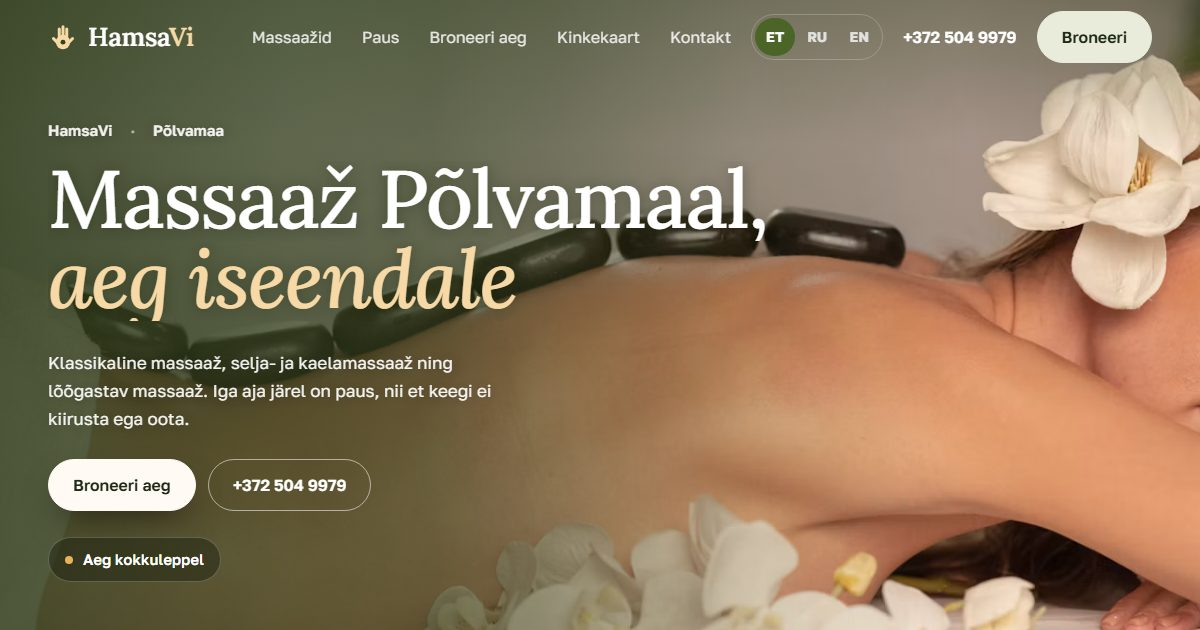
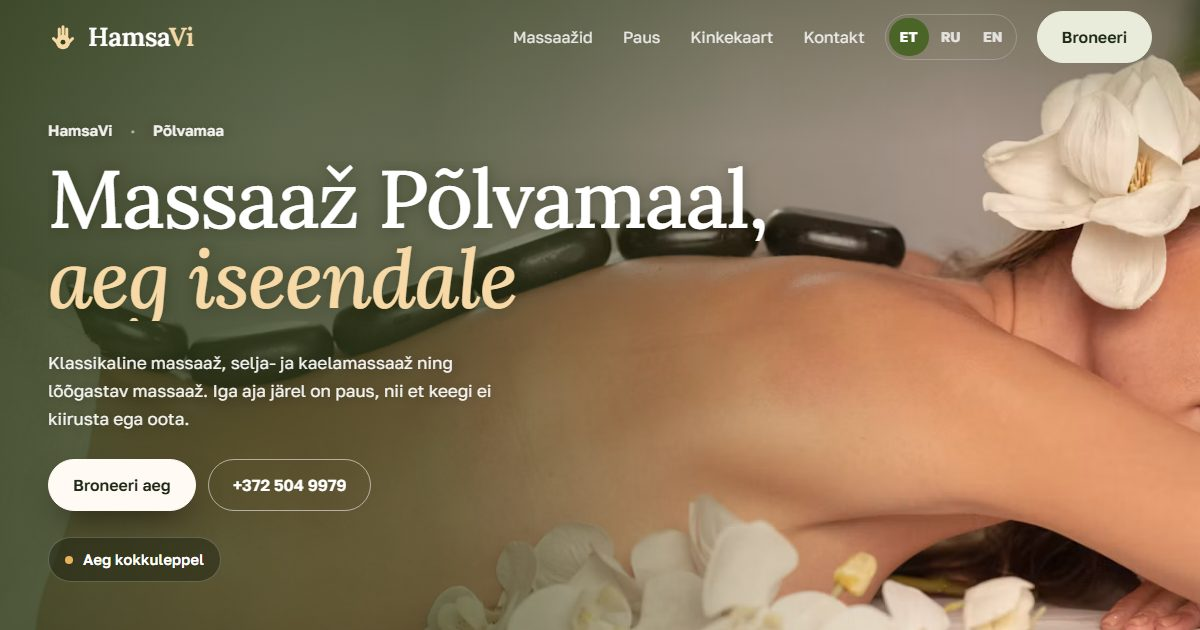
QA parandused

Changed region(s): [[0.37, 0.0302, 0.8633, 0.0905], [0.2158, 0.0302, 0.2775, 0.0905], [0.3083, 0.0302, 0.3392, 0.0905]]

diff --git a/hamsavi/ru/index.html b/hamsavi/ru/index.html
@@ -5,7 +5,7 @@
 <meta name="viewport" content="width=device-width, initial-scale=1, viewport-fit=cover">
 <meta name="robots" content="noindex">
 <title>Массаж в Пылвамаа | HamsaVi</title>
-<meta name="description" content="HamsaVi — массаж в Пылвамаа, волость Пылва. Классический массаж, массаж спины и шеи, расслабляющий массаж в спокойном месте за городом. Время по договорённости, звоните…">
+<meta name="description" content="HamsaVi — массаж в Пылвамаа. Классический массаж, массаж спины и шеи, расслабляющий массаж за городом, в тишине. Время по договорённости: +372 504 9979.">
 <meta name="theme-color" content="#DCE1C9">
 <meta property="og:type" content="website">
 <meta property="og:locale" content="ru_RU">
@@ -17,7 +17,7 @@
 <link rel="alternate" hreflang="x-default" href="../">
 <meta property="og:site_name" content="HamsaVi">
 <meta property="og:title" content="Массаж в Пылвамаа | HamsaVi">
-<meta property="og:description" content="HamsaVi — массаж в Пылвамаа, волость Пылва. Классический массаж, массаж спины и шеи, расслабляющий массаж в спокойном месте за городом. Время по договорённости, звоните…">
+<meta property="og:description" content="HamsaVi — массаж в Пылвамаа. Классический массаж, массаж спины и шеи, расслабляющий массаж за городом, в тишине. Время по договорённости: +372 504 9979.">
 <meta property="og:image" content="https://herijanis.github.io/kiirleht/hamsavi/og.jpg">
 <meta property="og:image:width" content="1200">
 <meta property="og:image:height" content="630">
@@ -30,7 +30,7 @@
 <script src="https://cdnjs.cloudflare.com/ajax/libs/gsap/3.12.5/ScrollTrigger.min.js" defer></script>
 <script src="https://cdn.jsdelivr.net/npm/lenis@1.1.13/dist/lenis.min.js" defer></script>
 <link rel="preconnect" href="https://images.unsplash.com">
-<script type="application/ld+json">{"@context": "https://schema.org", "@type": "HealthAndBeautyBusiness", "name": "HamsaVi", "description": "HamsaVi — массаж в Пылвамаа, волость Пылва. Классический массаж, массаж спины и шеи, расслабляющий массаж в спокойном месте за городом. Время по договорённости, звоните…", "telephone": "+3725049979", "address": {"@type": "PostalAddress", "streetAddress": "Põlva vald", "addressLocality": "Põlva vald", "addressCountry": "EE"}, "email": "Hamsaviou@gmail.com", "hasMap": "https://www.google.com/maps/search/?api=1&query=P%C3%B5lva%20vald", "inLanguage": "ru"}</script>
+<script type="application/ld+json">{"@context": "https://schema.org", "@type": "HealthAndBeautyBusiness", "name": "HamsaVi", "description": "HamsaVi — массаж в Пылвамаа. Классический массаж, массаж спины и шеи, расслабляющий массаж за городом, в тишине. Время по договорённости: +372 504 9979.", "telephone": "+3725049979", "address": {"@type": "PostalAddress", "streetAddress": "Põlva vald", "addressLocality": "Põlva vald", "addressCountry": "EE"}, "email": "Hamsaviou@gmail.com", "hasMap": "https://www.google.com/maps/search/?api=1&query=P%C3%B5lva%20vald", "inLanguage": "ru"}</script>
 <script type="application/ld+json">{"@context": "https://schema.org", "@type": "FAQPage", "mainEntity": [{"@type": "Question", "name": "Где проходит массаж?", "acceptedAnswer": {"@type": "Answer", "text": "В Пылвамаа, в волости Пылва. Точное место и как доехать — сообщим при подтверждении записи."}}, {"@type": "Question", "name": "Сколько стоит массаж?", "acceptedAnswer": {"@type": "Answer", "text": "Цену скажем, когда договоримся о времени, — она зависит от массажа и длительности."}}, {"@type": "Question", "name": "Сколько может длиться массаж?", "acceptedAnswer": {"@type": "Answer", "text": "Можно выбрать 30, 60 или 90 минут. Если не знаете, что подойдёт, — просто спросите."}}, {"@type": "Question", "name": "Почему между сеансами перерыв?", "acceptedAnswer": {"@type": "Answer", "text": "После каждого массажа есть перерыв — чтобы ваше время не сокращалось и следующему клиенту не приходилось ждать. Сеансы никогда не ставятся вплотную друг к другу."}}, {"@type": "Question", "name": "Когда можно прийти?", "acceptedAnswer": {"@type": "Answer", "text": "Время — по договорённости. Выберите в форме удобный день и время или позвоните +372 504 9979."}}, {"@type": "Question", "name": "Можно ли подарить сертификат?", "acceptedAnswer": {"@type": "Answer", "text": "Да — закажите прямо здесь, на сайте, через SMS или позвоните."}}], "inLanguage": "ru"}</script>
 <style>
 
@@ -400,6 +400,10 @@ body.t-hv main>section:is(.blk,.sec){--tA:#CFD7B8;--tB:#E3E7D1}
 @media (max-width:900px){.t-hv .pause .pz-text,.t-hv .pause .pz-photo{grid-column:1/-1}.t-hv .pause .pz-photo{min-height:300px}}
 .t-hv .pz-text h2{font-size:clamp(36px,4vw,56px)}
 .t-hv .pz-text p{color:var(--muted);font-size:18px}
+/* QA 19.11: logo ei tohi menüü alla kokku suruda (900–1280px, RU pikemad sõnad) */
+.t-hv .top .brand{flex:none}
+@media (max-width:1239px){.t-hv .top-call{display:none}}
+@media (max-width:1079px){.t-hv .top .nav{display:none}}
 .t-hv .day{list-style:none;padding:0;margin:26px 0 0;display:grid;gap:8px}
 .t-hv .day li{display:grid;grid-template-columns:64px 1fr;gap:14px;align-items:center;font-size:16px}
 .t-hv .day time{font-variant-numeric:tabular-nums;font-weight:700}
@@ -500,7 +504,7 @@ body.t-hv main>section:is(.blk,.sec){--tA:#CFD7B8;--tB:#E3E7D1}
 <a class="skip" href="#main">Перейти к содержанию</a>
 <header class="top"><div class="wrap">
   <a class="brand" translate="no" href="#main" aria-label="HamsaVi"><svg viewBox="0 0 32 32" aria-hidden="true"><g fill="none" stroke="currentColor" stroke-width="3.2" stroke-linecap="round"><path d="M12 15V7.5M16 15V5M20 15V7.5M9.6 21.5 5.8 17.6M22.4 21.5l3.8-3.9"/></g><rect x="8.5" y="13.5" width="15" height="15.5" rx="7.5" fill="currentColor"/><circle class="eye" cx="16" cy="21.5" r="2.6"/></svg><span>Hamsa<b>Vi</b></span></a>
-  <nav class="nav" aria-label="Меню"><a href="#massaazid">Массажи</a><a href="#paus">Перерыв</a><a href="#broneeri">Записаться</a><a href="#kinkekaart">Подарочный сертификат</a><a href="#kontakt">Контакты</a></nav>
+  <nav class="nav" aria-label="Меню"><a href="#massaazid">Массажи</a><a href="#paus">Перерыв</a><a href="#kinkekaart">Подарочный сертификат</a><a href="#kontakt">Контакты</a></nav>
   <nav class="lang" aria-label="Keel / Язык / Language"><a href="../" hreflang="et" lang="et" data-lang="et">ET</a><a href="./" hreflang="ru" lang="ru" data-lang="ru" aria-current="true">RU</a><a href="../en/" hreflang="en" lang="en" data-lang="en">EN</a></nav>
   <a class="top-call" href="tel:+3725049979">+372 504 9979</a>
   <a class="btn" href="#broneeri">Записаться</a>
@@ -600,7 +604,7 @@ body.t-hv main>section:is(.blk,.sec){--tA:#CFD7B8;--tB:#E3E7D1}
 <section id="kkk" class="sec faq">
   <div class="wrap faq-grid"><h2>Частые вопросы</h2><div class="faq-list"><details><summary>Где проходит массаж?</summary><p>В Пылвамаа, в волости Пылва. Точное место и как доехать — сообщим при подтверждении записи.</p></details><details><summary>Сколько стоит массаж?</summary><p>Цену скажем, когда договоримся о времени, — она зависит от массажа и длительности.</p></details><details><summary>Сколько может длиться массаж?</summary><p>Можно выбрать 30, 60 или 90 минут. Если не знаете, что подойдёт, — просто спросите.</p></details><details><summary>Почему между сеансами перерыв?</summary><p>После каждого массажа есть перерыв — чтобы ваше время не сокращалось и следующему клиенту не приходилось ждать. Сеансы никогда не ставятся вплотную друг к другу.</p></details><details><summary>Когда можно прийти?</summary><p>Время — по договорённости. Выберите в форме удобный день и время или позвоните +372 504 9979.</p></details><details><summary>Можно ли подарить сертификат?</summary><p>Да — закажите прямо здесь, на сайте, через SMS или позвоните.</p></details></div></div>
 </section>
-<section id="kontakt" class="blk" style="padding-top:0"><div class="wrap">
+<section id="kontakt" class="blk"><div class="wrap">
   <div class="g12 shead"><div><h2>Контакты</h2></div><p>Позвоните, отправьте SMS или напишите — договоримся о времени.</p></div>
   <article class="band city reveal-clip"><img src="https://images.unsplash.com/photo-1592859600972-1b0834d83747?w=1200&h=525&q=70&auto=format&fit=crop&crop=entropy" srcset="https://images.unsplash.com/photo-1592859600972-1b0834d83747?w=800&h=350&q=70&auto=format&fit=crop&crop=entropy 800w, https://images.unsplash.com/photo-1592859600972-1b0834d83747?w=1800&h=788&q=70&auto=format&fit=crop&crop=entropy 1800w" sizes="100vw" width="1200" height="525" alt="Тропинка в сосновом лесу" loading="lazy" decoding="async"><div class="in"><h3>Пылвамаа</h3><p>Волость Пылва. Точное место и как доехать — сообщим при подтверждении записи.</p></div></article>
   <div class="contact">
@@ -779,7 +783,7 @@ function upd(){
   var day=v('date'),dd='';if(day){var pd=day.split('-');dd=pd[2]+'.'+pd[1]+'.'+pd[0]}
   var at=(s&&day)?tpl(T.at,{t:hm(cur)}):((L.tod||{}).u||'');
   if(s&&day)info.textContent=tpl(T.rng,{a:hm(cur),b:hm(cur+dur),c:hm(cur+dur+P)});
-  var lines=[tpl(L.mHello,{s:sd}),dd?tpl(L.mDate,{d:dd,t:at}):tpl(L.mTime,{t:at}),v('note'),L.mAsk||'',v('name')?tpl(L.mName,{n:v('name')}):''];
+  var lines=[tpl(L.mHello,{s:sd}),dd?tpl(L.mDate,{d:dd,t:at}):tpl(L.mTime,{t:at}),v('note'),(s&&day)?'':(L.mAsk||''),v('name')?tpl(L.mName,{n:v('name')}):''];
   var body=lines.filter(Boolean).join('\n'),num=bf.dataset.sms.replace(/[^0-9+]/g,'');
   d.getElementById('bkSms').href='sms:'+num+'?&body='+encodeURIComponent(body);
   var w=d.getElementById('bkWa');if(w)w.href='https://wa.me/'+num.replace(/\D/g,'')+'?text='+encodeURIComponent(body);

diff --git a/hamsavi/en/index.html b/hamsavi/en/index.html
@@ -5,7 +5,7 @@
 <meta name="viewport" content="width=device-width, initial-scale=1, viewport-fit=cover">
 <meta name="robots" content="noindex">
 <title>Massage in Põlva County | HamsaVi</title>
-<meta name="description" content="HamsaVi – massage in Põlva County. Classic massage, back and neck massage and relaxing massage in a quiet countryside setting. By appointment, call…">
+<meta name="description" content="HamsaVi – massage in Põlva County. Classic, back and neck, and relaxing massage in a quiet countryside setting. By appointment: +372 504 9979.">
 <meta name="theme-color" content="#DCE1C9">
 <meta property="og:type" content="website">
 <meta property="og:locale" content="en_GB">
@@ -17,7 +17,7 @@
 <link rel="alternate" hreflang="x-default" href="../">
 <meta property="og:site_name" content="HamsaVi">
 <meta property="og:title" content="Massage in Põlva County | HamsaVi">
-<meta property="og:description" content="HamsaVi – massage in Põlva County. Classic massage, back and neck massage and relaxing massage in a quiet countryside setting. By appointment, call…">
+<meta property="og:description" content="HamsaVi – massage in Põlva County. Classic, back and neck, and relaxing massage in a quiet countryside setting. By appointment: +372 504 9979.">
 <meta property="og:image" content="https://herijanis.github.io/kiirleht/hamsavi/og.jpg">
 <meta property="og:image:width" content="1200">
 <meta property="og:image:height" content="630">
@@ -30,7 +30,7 @@
 <script src="https://cdnjs.cloudflare.com/ajax/libs/gsap/3.12.5/ScrollTrigger.min.js" defer></script>
 <script src="https://cdn.jsdelivr.net/npm/lenis@1.1.13/dist/lenis.min.js" defer></script>
 <link rel="preconnect" href="https://images.unsplash.com">
-<script type="application/ld+json">{"@context": "https://schema.org", "@type": "HealthAndBeautyBusiness", "name": "HamsaVi", "description": "HamsaVi – massage in Põlva County. Classic massage, back and neck massage and relaxing massage in a quiet countryside setting. By appointment, call…", "telephone": "+3725049979", "address": {"@type": "PostalAddress", "streetAddress": "Põlva vald", "addressLocality": "Põlva vald", "addressCountry": "EE"}, "email": "Hamsaviou@gmail.com", "hasMap": "https://www.google.com/maps/search/?api=1&query=P%C3%B5lva%20vald", "inLanguage": "en"}</script>
+<script type="application/ld+json">{"@context": "https://schema.org", "@type": "HealthAndBeautyBusiness", "name": "HamsaVi", "description": "HamsaVi – massage in Põlva County. Classic, back and neck, and relaxing massage in a quiet countryside setting. By appointment: +372 504 9979.", "telephone": "+3725049979", "address": {"@type": "PostalAddress", "streetAddress": "Põlva vald", "addressLocality": "Põlva vald", "addressCountry": "EE"}, "email": "Hamsaviou@gmail.com", "hasMap": "https://www.google.com/maps/search/?api=1&query=P%C3%B5lva%20vald", "inLanguage": "en"}</script>
 <script type="application/ld+json">{"@context": "https://schema.org", "@type": "FAQPage", "mainEntity": [{"@type": "Question", "name": "Where does the massage take place?", "acceptedAnswer": {"@type": "Answer", "text": "In Põlva County, Põlva parish. You'll get the exact location and directions when your time is confirmed."}}, {"@type": "Question", "name": "How much does a massage cost?", "acceptedAnswer": {"@type": "Answer", "text": "We'll tell you the price when we agree on a time – it depends on the massage and its length."}}, {"@type": "Question", "name": "How long can a massage be?", "acceptedAnswer": {"@type": "Answer", "text": "You can choose 30, 60 or 90 minutes. Not sure what suits you? Just ask."}}, {"@type": "Question", "name": "Why is there a break between appointments?", "acceptedAnswer": {"@type": "Answer", "text": "There is a break after every massage, so your time is never cut short and the next client never has to wait. Appointments are never booked back to back."}}, {"@type": "Question", "name": "When can I come?", "acceptedAnswer": {"@type": "Answer", "text": "Times are by arrangement. Pick a day and start time in the form or call +372 504 9979."}}, {"@type": "Question", "name": "Do you offer gift cards?", "acceptedAnswer": {"@type": "Answer", "text": "Yes – order one right here by text message, or give us a call."}}], "inLanguage": "en"}</script>
 <style>
 
@@ -400,6 +400,10 @@ body.t-hv main>section:is(.blk,.sec){--tA:#CFD7B8;--tB:#E3E7D1}
 @media (max-width:900px){.t-hv .pause .pz-text,.t-hv .pause .pz-photo{grid-column:1/-1}.t-hv .pause .pz-photo{min-height:300px}}
 .t-hv .pz-text h2{font-size:clamp(36px,4vw,56px)}
 .t-hv .pz-text p{color:var(--muted);font-size:18px}
+/* QA 19.11: logo ei tohi menüü alla kokku suruda (900–1280px, RU pikemad sõnad) */
+.t-hv .top .brand{flex:none}
+@media (max-width:1239px){.t-hv .top-call{display:none}}
+@media (max-width:1079px){.t-hv .top .nav{display:none}}
 .t-hv .day{list-style:none;padding:0;margin:26px 0 0;display:grid;gap:8px}
 .t-hv .day li{display:grid;grid-template-columns:64px 1fr;gap:14px;align-items:center;font-size:16px}
 .t-hv .day time{font-variant-numeric:tabular-nums;font-weight:700}
@@ -500,7 +504,7 @@ body.t-hv main>section:is(.blk,.sec){--tA:#CFD7B8;--tB:#E3E7D1}
 <a class="skip" href="#main">Skip to content</a>
 <header class="top"><div class="wrap">
   <a class="brand" translate="no" href="#main" aria-label="HamsaVi"><svg viewBox="0 0 32 32" aria-hidden="true"><g fill="none" stroke="currentColor" stroke-width="3.2" stroke-linecap="round"><path d="M12 15V7.5M16 15V5M20 15V7.5M9.6 21.5 5.8 17.6M22.4 21.5l3.8-3.9"/></g><rect x="8.5" y="13.5" width="15" height="15.5" rx="7.5" fill="currentColor"/><circle class="eye" cx="16" cy="21.5" r="2.6"/></svg><span>Hamsa<b>Vi</b></span></a>
-  <nav class="nav" aria-label="Menu"><a href="#massaazid">Massages</a><a href="#paus">The break</a><a href="#broneeri">Book a time</a><a href="#kinkekaart">Gift card</a><a href="#kontakt">Contact</a></nav>
+  <nav class="nav" aria-label="Menu"><a href="#massaazid">Massages</a><a href="#paus">The break</a><a href="#kinkekaart">Gift card</a><a href="#kontakt">Contact</a></nav>
   <nav class="lang" aria-label="Keel / Язык / Language"><a href="../" hreflang="et" lang="et" data-lang="et">ET</a><a href="../ru/" hreflang="ru" lang="ru" data-lang="ru">RU</a><a href="./" hreflang="en" lang="en" data-lang="en" aria-current="true">EN</a></nav>
   <a class="top-call" href="tel:+3725049979">+372 504 9979</a>
   <a class="btn" href="#broneeri">Book</a>
@@ -518,7 +522,7 @@ body.t-hv main>section:is(.blk,.sec){--tA:#CFD7B8;--tB:#E3E7D1}
 </section>
 <section class="intro blk"><div class="wrap g12">
   <p class="big">Countryside calm instead of city noise. Book with a single message – you&#x27;ll get the exact location when your time is confirmed.</p>
-  <aside class="glance"><h2>Lengths</h2><ul><li>30 min <b>price on request</b></li><li>60 min <b>price on request</b></li><li>90 min <b>price on request</b></li></ul><a href="#broneeri">Pick a free time</a></aside>
+  <aside class="glance"><h2>Session lengths</h2><ul><li>30 min <b>price on request</b></li><li>60 min <b>price on request</b></li><li>90 min <b>price on request</b></li></ul><a href="#broneeri">Pick a free time</a></aside>
 </div></section>
 
 <section id="massaazid" class="blk"><div class="wrap">
@@ -600,7 +604,7 @@ body.t-hv main>section:is(.blk,.sec){--tA:#CFD7B8;--tB:#E3E7D1}
 <section id="kkk" class="sec faq">
   <div class="wrap faq-grid"><h2>Frequently asked questions</h2><div class="faq-list"><details><summary>Where does the massage take place?</summary><p>In Põlva County, Põlva parish. You&#x27;ll get the exact location and directions when your time is confirmed.</p></details><details><summary>How much does a massage cost?</summary><p>We&#x27;ll tell you the price when we agree on a time – it depends on the massage and its length.</p></details><details><summary>How long can a massage be?</summary><p>You can choose 30, 60 or 90 minutes. Not sure what suits you? Just ask.</p></details><details><summary>Why is there a break between appointments?</summary><p>There is a break after every massage, so your time is never cut short and the next client never has to wait. Appointments are never booked back to back.</p></details><details><summary>When can I come?</summary><p>Times are by arrangement. Pick a day and start time in the form or call +372 504 9979.</p></details><details><summary>Do you offer gift cards?</summary><p>Yes – order one right here by text message, or give us a call.</p></details></div></div>
 </section>
-<section id="kontakt" class="blk" style="padding-top:0"><div class="wrap">
+<section id="kontakt" class="blk"><div class="wrap">
   <div class="g12 shead"><div><h2>Contact</h2></div><p>Call, text or write – we&#x27;ll agree on a time.</p></div>
   <article class="band city reveal-clip"><img src="https://images.unsplash.com/photo-1592859600972-1b0834d83747?w=1200&h=525&q=70&auto=format&fit=crop&crop=entropy" srcset="https://images.unsplash.com/photo-1592859600972-1b0834d83747?w=800&h=350&q=70&auto=format&fit=crop&crop=entropy 800w, https://images.unsplash.com/photo-1592859600972-1b0834d83747?w=1800&h=788&q=70&auto=format&fit=crop&crop=entropy 1800w" sizes="100vw" width="1200" height="525" alt="Forest path through pines" loading="lazy" decoding="async"><div class="in"><h3>Põlva County</h3><p>Põlva parish. You&#x27;ll get the exact location and directions when your time is confirmed.</p></div></article>
   <div class="contact">
@@ -779,7 +783,7 @@ function upd(){
   var day=v('date'),dd='';if(day){var pd=day.split('-');dd=pd[2]+'.'+pd[1]+'.'+pd[0]}
   var at=(s&&day)?tpl(T.at,{t:hm(cur)}):((L.tod||{}).u||'');
   if(s&&day)info.textContent=tpl(T.rng,{a:hm(cur),b:hm(cur+dur),c:hm(cur+dur+P)});
-  var lines=[tpl(L.mHello,{s:sd}),dd?tpl(L.mDate,{d:dd,t:at}):tpl(L.mTime,{t:at}),v('note'),L.mAsk||'',v('name')?tpl(L.mName,{n:v('name')}):''];
+  var lines=[tpl(L.mHello,{s:sd}),dd?tpl(L.mDate,{d:dd,t:at}):tpl(L.mTime,{t:at}),v('note'),(s&&day)?'':(L.mAsk||''),v('name')?tpl(L.mName,{n:v('name')}):''];
   var body=lines.filter(Boolean).join('\n'),num=bf.dataset.sms.replace(/[^0-9+]/g,'');
   d.getElementById('bkSms').href='sms:'+num+'?&body='+encodeURIComponent(body);
   var w=d.getElementById('bkWa');if(w)w.href='https://wa.me/'+num.replace(/\D/g,'')+'?text='+encodeURIComponent(body);

diff --git a/hamsavi/index.html b/hamsavi/index.html
@@ -5,7 +5,7 @@
 <meta name="viewport" content="width=device-width, initial-scale=1, viewport-fit=cover">
 <meta name="robots" content="noindex">
 <title>Massaaž Põlvamaal | HamsaVi</title>
-<meta name="description" content="HamsaVi – massaaž Põlvamaal, Põlva vallas. Klassikaline massaaž, selja- ja kaelamassaaž ning lõõgastav massaaž rahulikus maakohas. Aeg kokkuleppel, helista…">
+<meta name="description" content="HamsaVi – massaaž Põlvamaal. Klassikaline massaaž, selja- ja kaelamassaaž ning lõõgastav massaaž rahulikus maakohas. Aeg kokkuleppel: +372 504 9979.">
 <meta name="theme-color" content="#DCE1C9">
 <meta property="og:type" content="website">
 <meta property="og:locale" content="et_EE">
@@ -17,7 +17,7 @@
 <link rel="alternate" hreflang="x-default" href="./">
 <meta property="og:site_name" content="HamsaVi">
 <meta property="og:title" content="Massaaž Põlvamaal | HamsaVi">
-<meta property="og:description" content="HamsaVi – massaaž Põlvamaal, Põlva vallas. Klassikaline massaaž, selja- ja kaelamassaaž ning lõõgastav massaaž rahulikus maakohas. Aeg kokkuleppel, helista…">
+<meta property="og:description" content="HamsaVi – massaaž Põlvamaal. Klassikaline massaaž, selja- ja kaelamassaaž ning lõõgastav massaaž rahulikus maakohas. Aeg kokkuleppel: +372 504 9979.">
 <meta property="og:image" content="https://herijanis.github.io/kiirleht/hamsavi/og.jpg">
 <meta property="og:image:width" content="1200">
 <meta property="og:image:height" content="630">
@@ -30,7 +30,7 @@
 <script src="https://cdnjs.cloudflare.com/ajax/libs/gsap/3.12.5/ScrollTrigger.min.js" defer></script>
 <script src="https://cdn.jsdelivr.net/npm/lenis@1.1.13/dist/lenis.min.js" defer></script>
 <link rel="preconnect" href="https://images.unsplash.com">
-<script type="application/ld+json">{"@context": "https://schema.org", "@type": "HealthAndBeautyBusiness", "name": "HamsaVi", "description": "HamsaVi – massaaž Põlvamaal, Põlva vallas. Klassikaline massaaž, selja- ja kaelamassaaž ning lõõgastav massaaž rahulikus maakohas. Aeg kokkuleppel, helista…", "telephone": "+3725049979", "address": {"@type": "PostalAddress", "streetAddress": "Põlva vald", "addressLocality": "Põlva vald", "addressCountry": "EE"}, "email": "Hamsaviou@gmail.com", "hasMap": "https://www.google.com/maps/search/?api=1&query=P%C3%B5lva%20vald"}</script>
+<script type="application/ld+json">{"@context": "https://schema.org", "@type": "HealthAndBeautyBusiness", "name": "HamsaVi", "description": "HamsaVi – massaaž Põlvamaal. Klassikaline massaaž, selja- ja kaelamassaaž ning lõõgastav massaaž rahulikus maakohas. Aeg kokkuleppel: +372 504 9979.", "telephone": "+3725049979", "address": {"@type": "PostalAddress", "streetAddress": "Põlva vald", "addressLocality": "Põlva vald", "addressCountry": "EE"}, "email": "Hamsaviou@gmail.com", "hasMap": "https://www.google.com/maps/search/?api=1&query=P%C3%B5lva%20vald"}</script>
 <script type="application/ld+json">{"@context": "https://schema.org", "@type": "FAQPage", "mainEntity": [{"@type": "Question", "name": "Kus massaaž toimub?", "acceptedAnswer": {"@type": "Answer", "text": "Põlvamaal, Põlva vallas. Täpse asukoha ja teejuhise saad aja kinnitamisel."}}, {"@type": "Question", "name": "Kui palju massaaž maksab?", "acceptedAnswer": {"@type": "Answer", "text": "Hinna ütleme aja kokkuleppimisel – see sõltub massaažist ja kestusest."}}, {"@type": "Question", "name": "Kui pikk massaaž olla võib?", "acceptedAnswer": {"@type": "Answer", "text": "Valida saab 30, 60 või 90 minutit. Kui sa ei tea, mis sobib, küsi julgelt."}}, {"@type": "Question", "name": "Miks on aegade vahel paus?", "acceptedAnswer": {"@type": "Answer", "text": "Iga massaaži järel on paus, et sinu aeg ei jääks lühemaks ja järgmine klient ei peaks ootama. Aegu ei panda kunagi üksteise otsa."}}, {"@type": "Question", "name": "Millal saab tulla?", "acceptedAnswer": {"@type": "Answer", "text": "Aeg on kokkuleppel. Vali vormis sobiv päev ja algusaeg või helista +372 504 9979."}}, {"@type": "Question", "name": "Kas saab kinkekaardi?", "acceptedAnswer": {"@type": "Answer", "text": "Jah – telli see siitsamast lehelt SMS-iga või helista."}}]}</script>
 <style>
 
@@ -400,6 +400,10 @@ body.t-hv main>section:is(.blk,.sec){--tA:#CFD7B8;--tB:#E3E7D1}
 @media (max-width:900px){.t-hv .pause .pz-text,.t-hv .pause .pz-photo{grid-column:1/-1}.t-hv .pause .pz-photo{min-height:300px}}
 .t-hv .pz-text h2{font-size:clamp(36px,4vw,56px)}
 .t-hv .pz-text p{color:var(--muted);font-size:18px}
+/* QA 19.11: logo ei tohi menüü alla kokku suruda (900–1280px, RU pikemad sõnad) */
+.t-hv .top .brand{flex:none}
+@media (max-width:1239px){.t-hv .top-call{display:none}}
+@media (max-width:1079px){.t-hv .top .nav{display:none}}
 .t-hv .day{list-style:none;padding:0;margin:26px 0 0;display:grid;gap:8px}
 .t-hv .day li{display:grid;grid-template-columns:64px 1fr;gap:14px;align-items:center;font-size:16px}
 .t-hv .day time{font-variant-numeric:tabular-nums;font-weight:700}
@@ -501,7 +505,7 @@ body.t-hv main>section:is(.blk,.sec){--tA:#CFD7B8;--tB:#E3E7D1}
 <div class="langbar" id="langbar" hidden data-ru="Эта страница есть на русском." data-ru-go="Перейти" data-en="This page is also available in English." data-en-go="Open in English"><span></span> <a href="ru/">→</a><button type="button" aria-label="Sulge / Закрыть / Close">×</button></div>
 <header class="top"><div class="wrap">
   <a class="brand" translate="no" href="#main" aria-label="HamsaVi"><svg viewBox="0 0 32 32" aria-hidden="true"><g fill="none" stroke="currentColor" stroke-width="3.2" stroke-linecap="round"><path d="M12 15V7.5M16 15V5M20 15V7.5M9.6 21.5 5.8 17.6M22.4 21.5l3.8-3.9"/></g><rect x="8.5" y="13.5" width="15" height="15.5" rx="7.5" fill="currentColor"/><circle class="eye" cx="16" cy="21.5" r="2.6"/></svg><span>Hamsa<b>Vi</b></span></a>
-  <nav class="nav" aria-label="Menüü"><a href="#massaazid">Massaažid</a><a href="#paus">Paus</a><a href="#broneeri">Broneeri aeg</a><a href="#kinkekaart">Kinkekaart</a><a href="#kontakt">Kontakt</a></nav>
+  <nav class="nav" aria-label="Menüü"><a href="#massaazid">Massaažid</a><a href="#paus">Paus</a><a href="#kinkekaart">Kinkekaart</a><a href="#kontakt">Kontakt</a></nav>
   <nav class="lang" aria-label="Keel / Язык / Language"><a href="./" hreflang="et" lang="et" data-lang="et" aria-current="true">ET</a><a href="ru/" hreflang="ru" lang="ru" data-lang="ru">RU</a><a href="en/" hreflang="en" lang="en" data-lang="en">EN</a></nav>
   <a class="top-call" href="tel:+3725049979">+372 504 9979</a>
   <a class="btn" href="#broneeri">Broneeri</a>
@@ -601,7 +605,7 @@ body.t-hv main>section:is(.blk,.sec){--tA:#CFD7B8;--tB:#E3E7D1}
 <section id="kkk" class="sec faq">
   <div class="wrap faq-grid"><h2>Korduma kippuvad küsimused</h2><div class="faq-list"><details><summary>Kus massaaž toimub?</summary><p>Põlvamaal, Põlva vallas. Täpse asukoha ja teejuhise saad aja kinnitamisel.</p></details><details><summary>Kui palju massaaž maksab?</summary><p>Hinna ütleme aja kokkuleppimisel – see sõltub massaažist ja kestusest.</p></details><details><summary>Kui pikk massaaž olla võib?</summary><p>Valida saab 30, 60 või 90 minutit. Kui sa ei tea, mis sobib, küsi julgelt.</p></details><details><summary>Miks on aegade vahel paus?</summary><p>Iga massaaži järel on paus, et sinu aeg ei jääks lühemaks ja järgmine klient ei peaks ootama. Aegu ei panda kunagi üksteise otsa.</p></details><details><summary>Millal saab tulla?</summary><p>Aeg on kokkuleppel. Vali vormis sobiv päev ja algusaeg või helista +372 504 9979.</p></details><details><summary>Kas saab kinkekaardi?</summary><p>Jah – telli see siitsamast lehelt SMS-iga või helista.</p></details></div></div>
 </section>
-<section id="kontakt" class="blk" style="padding-top:0"><div class="wrap">
+<section id="kontakt" class="blk"><div class="wrap">
   <div class="g12 shead"><div><h2>Kontakt</h2></div><p>Helista, saada SMS või kirjuta – lepime aja kokku.</p></div>
   <article class="band city reveal-clip"><img src="https://images.unsplash.com/photo-1592859600972-1b0834d83747?w=1200&h=525&q=70&auto=format&fit=crop&crop=entropy" srcset="https://images.unsplash.com/photo-1592859600972-1b0834d83747?w=800&h=350&q=70&auto=format&fit=crop&crop=entropy 800w, https://images.unsplash.com/photo-1592859600972-1b0834d83747?w=1800&h=788&q=70&auto=format&fit=crop&crop=entropy 1800w" sizes="100vw" width="1200" height="525" alt="Metsarada männikus" loading="lazy" decoding="async"><div class="in"><h3>Põlvamaa</h3><p>Põlva vald. Täpse asukoha ja teejuhise saad aja kinnitamisel.</p></div></article>
   <div class="contact">
@@ -780,7 +784,7 @@ function upd(){
   var day=v('date'),dd='';if(day){var pd=day.split('-');dd=pd[2]+'.'+pd[1]+'.'+pd[0]}
   var at=(s&&day)?tpl(T.at,{t:hm(cur)}):((L.tod||{}).u||'');
   if(s&&day)info.textContent=tpl(T.rng,{a:hm(cur),b:hm(cur+dur),c:hm(cur+dur+P)});
-  var lines=[tpl(L.mHello,{s:sd}),dd?tpl(L.mDate,{d:dd,t:at}):tpl(L.mTime,{t:at}),v('note'),L.mAsk||'',v('name')?tpl(L.mName,{n:v('name')}):''];
+  var lines=[tpl(L.mHello,{s:sd}),dd?tpl(L.mDate,{d:dd,t:at}):tpl(L.mTime,{t:at}),v('note'),(s&&day)?'':(L.mAsk||''),v('name')?tpl(L.mName,{n:v('name')}):''];
   var body=lines.filter(Boolean).join('\n'),num=bf.dataset.sms.replace(/[^0-9+]/g,'');
   d.getElementById('bkSms').href='sms:'+num+'?&body='+encodeURIComponent(body);
   var w=d.getElementById('bkWa');if(w)w.href='https://wa.me/'+num.replace(/\D/g,'')+'?text='+encodeURIComponent(body);

diff --git a/agvast/en/index.html b/agvast/en/index.html
@@ -397,6 +397,10 @@ body.t-ag main>section:is(.blk,.sec){--tA:#CFC0D9;--tB:#E6DCEA}
 .t-ag .pz-text h2{font-size:clamp(36px,4vw,56px);color:#fff}
 .t-ag .pz-text h2 em{font-style:normal;color:#EBC1D3}
 .t-ag .pz-text p{color:#E2D7E8;font-size:18px}
+/* QA 19.11: logo ei tohi menüü alla kokku suruda (900–1280px, RU pikemad sõnad) */
+.t-ag .top .brand{flex:none}
+@media (max-width:1239px){.t-ag .top-call{display:none}}
+@media (max-width:1079px){.t-ag .top .nav{display:none}}
 .t-ag .day{list-style:none;padding:0;margin:26px 0 0;display:grid;gap:8px}
 .t-ag .day li{display:grid;grid-template-columns:64px 1fr;gap:14px;align-items:center;font-size:16px}
 .t-ag .day time{font-variant-numeric:tabular-nums;font-weight:700}
@@ -510,7 +514,7 @@ body.t-ag main>section:is(.blk,.sec){--tA:#CFC0D9;--tB:#E6DCEA}
 <section class="hero hero-split" id="hero"><div class="wrap g12">
   <div class="hs-text">
     <p class="who"><span>Agvast</span><span>Tartu</span></p>
-    <h1><span class="ln"><span>Massage in Tartu,</span></span><span class="ln"><span><em>tension off</em></span></span></h1>
+    <h1><span class="ln"><span>Massage in Tartu,</span></span><span class="ln"><span><em>let the tension go</em></span></span></h1>
     <p class="sub">Classic massage, back and neck massage and relaxing massage. Pick a free time right here – there&#x27;s a break after every appointment, so your time is yours alone.</p>
     <div class="hero-cta"><a class="btn magnetic" href="#broneeri">Pick a free time</a><a class="btn btn-ghost magnetic" href="tel:+37256856773">+372 5685 6773</a></div>
     <p class="camp">30, 60 or 90 minutes</p>
@@ -519,7 +523,7 @@ body.t-ag main>section:is(.blk,.sec){--tA:#CFC0D9;--tB:#E6DCEA}
 </div></section>
 <section class="intro blk"><div class="wrap g12">
   <p class="big">After a long day at the computer or behind the wheel, your shoulders and neck need attention. Find a time that suits you – the message is ready in one tap.</p>
-  <aside class="glance"><h2>Lengths</h2><ul><li>30 min <b>price on request</b></li><li>60 min <b>price on request</b></li><li>90 min <b>price on request</b></li></ul><a href="#broneeri">Pick a free time</a></aside>
+  <aside class="glance"><h2>Session lengths</h2><ul><li>30 min <b>price on request</b></li><li>60 min <b>price on request</b></li><li>90 min <b>price on request</b></li></ul><a href="#broneeri">Pick a free time</a></aside>
 </div></section>
 
 <section id="teenused" class="blk"><div class="wrap">
@@ -587,7 +591,7 @@ body.t-ag main>section:is(.blk,.sec){--tA:#CFC0D9;--tB:#E6DCEA}
 <section id="kkk" class="sec faq">
   <div class="wrap faq-grid"><h2>Frequently asked questions</h2><div class="faq-list"><details><summary>Where does the massage take place?</summary><p>In Tartu. You&#x27;ll get the exact address when your time is confirmed.</p></details><details><summary>How much does a massage cost?</summary><p>We&#x27;ll tell you the price when we agree on a time – it depends on the massage and its length.</p></details><details><summary>How long can a massage be?</summary><p>You can choose 30, 60 or 90 minutes. Not sure what suits you? Just ask.</p></details><details><summary>Why is there a break between appointments?</summary><p>There is a break after every massage, so your time is never cut short and the next client never has to wait. Appointments are never booked back to back.</p></details><details><summary>When can I come?</summary><p>Pick a day and start time in the form or call +372 5685 6773.</p></details><details><summary>Do you offer gift cards?</summary><p>Yes – order one right here by text message, or give us a call.</p></details></div></div>
 </section>
-<section id="kontakt" class="blk" style="padding-top:0"><div class="wrap">
+<section id="kontakt" class="blk"><div class="wrap">
   <div class="g12 shead"><div><h2>Contact</h2></div><p>Call, text or write – we&#x27;ll agree on a time.</p></div>
   <article class="band city reveal-clip"><img src="../img/tartu-1800.jpg" srcset="../img/tartu-900.jpg 900w, ../img/tartu-1800.jpg 1800w" sizes="100vw" width="1800" height="788" alt="Autumn in Holm Park with the Arch Bridge and Town Hall behind, Tartu" loading="lazy" decoding="async"><div class="in"><h3>Tartu</h3><p>You&#x27;ll get the exact address when your time is confirmed.</p></div></article>
   <div class="contact">
@@ -766,7 +770,7 @@ function upd(){
   var day=v('date'),dd='';if(day){var pd=day.split('-');dd=pd[2]+'.'+pd[1]+'.'+pd[0]}
   var at=(s&&day)?tpl(T.at,{t:hm(cur)}):((L.tod||{}).u||'');
   if(s&&day)info.textContent=tpl(T.rng,{a:hm(cur),b:hm(cur+dur),c:hm(cur+dur+P)});
-  var lines=[tpl(L.mHello,{s:sd}),dd?tpl(L.mDate,{d:dd,t:at}):tpl(L.mTime,{t:at}),v('note'),L.mAsk||'',v('name')?tpl(L.mName,{n:v('name')}):''];
+  var lines=[tpl(L.mHello,{s:sd}),dd?tpl(L.mDate,{d:dd,t:at}):tpl(L.mTime,{t:at}),v('note'),(s&&day)?'':(L.mAsk||''),v('name')?tpl(L.mName,{n:v('name')}):''];
   var body=lines.filter(Boolean).join('\n'),num=bf.dataset.sms.replace(/[^0-9+]/g,'');
   d.getElementById('bkSms').href='sms:'+num+'?&body='+encodeURIComponent(body);
   var w=d.getElementById('bkWa');if(w)w.href='https://wa.me/'+num.replace(/\D/g,'')+'?text='+encodeURIComponent(body);

diff --git a/agvast/ru/index.html b/agvast/ru/index.html
@@ -397,6 +397,10 @@ body.t-ag main>section:is(.blk,.sec){--tA:#CFC0D9;--tB:#E6DCEA}
 .t-ag .pz-text h2{font-size:clamp(36px,4vw,56px);color:#fff}
 .t-ag .pz-text h2 em{font-style:normal;color:#EBC1D3}
 .t-ag .pz-text p{color:#E2D7E8;font-size:18px}
+/* QA 19.11: logo ei tohi menüü alla kokku suruda (900–1280px, RU pikemad sõnad) */
+.t-ag .top .brand{flex:none}
+@media (max-width:1239px){.t-ag .top-call{display:none}}
+@media (max-width:1079px){.t-ag .top .nav{display:none}}
 .t-ag .day{list-style:none;padding:0;margin:26px 0 0;display:grid;gap:8px}
 .t-ag .day li{display:grid;grid-template-columns:64px 1fr;gap:14px;align-items:center;font-size:16px}
 .t-ag .day time{font-variant-numeric:tabular-nums;font-weight:700}
@@ -587,7 +591,7 @@ body.t-ag main>section:is(.blk,.sec){--tA:#CFC0D9;--tB:#E6DCEA}
 <section id="kkk" class="sec faq">
   <div class="wrap faq-grid"><h2>Частые вопросы</h2><div class="faq-list"><details><summary>Где проходит массаж?</summary><p>В Тарту. Точный адрес сообщим при подтверждении записи.</p></details><details><summary>Сколько стоит массаж?</summary><p>Цену скажем, когда договоримся о времени, — она зависит от массажа и длительности.</p></details><details><summary>Сколько может длиться массаж?</summary><p>Можно выбрать 30, 60 или 90 минут. Если не знаете, что подойдёт, — просто спросите.</p></details><details><summary>Почему между сеансами перерыв?</summary><p>После каждого массажа есть перерыв — чтобы ваше время не сокращалось и следующему клиенту не приходилось ждать. Сеансы никогда не ставятся вплотную друг к другу.</p></details><details><summary>Когда можно прийти?</summary><p>Выберите в форме удобный день и время или позвоните +372 5685 6773.</p></details><details><summary>Можно ли подарить сертификат?</summary><p>Да — закажите прямо здесь, на сайте, через SMS или позвоните.</p></details></div></div>
 </section>
-<section id="kontakt" class="blk" style="padding-top:0"><div class="wrap">
+<section id="kontakt" class="blk"><div class="wrap">
   <div class="g12 shead"><div><h2>Контакты</h2></div><p>Позвоните, отправьте SMS или напишите — договоримся о времени.</p></div>
   <article class="band city reveal-clip"><img src="../img/tartu-1800.jpg" srcset="../img/tartu-900.jpg 900w, ../img/tartu-1800.jpg 1800w" sizes="100vw" width="1800" height="788" alt="Осень в парке Холми, вдали мост Каарсилд и ратуша, Тарту" loading="lazy" decoding="async"><div class="in"><h3>Тарту</h3><p>Точный адрес сообщим при подтверждении записи.</p></div></article>
   <div class="contact">
@@ -766,7 +770,7 @@ function upd(){
   var day=v('date'),dd='';if(day){var pd=day.split('-');dd=pd[2]+'.'+pd[1]+'.'+pd[0]}
   var at=(s&&day)?tpl(T.at,{t:hm(cur)}):((L.tod||{}).u||'');
   if(s&&day)info.textContent=tpl(T.rng,{a:hm(cur),b:hm(cur+dur),c:hm(cur+dur+P)});
-  var lines=[tpl(L.mHello,{s:sd}),dd?tpl(L.mDate,{d:dd,t:at}):tpl(L.mTime,{t:at}),v('note'),L.mAsk||'',v('name')?tpl(L.mName,{n:v('name')}):''];
+  var lines=[tpl(L.mHello,{s:sd}),dd?tpl(L.mDate,{d:dd,t:at}):tpl(L.mTime,{t:at}),v('note'),(s&&day)?'':(L.mAsk||''),v('name')?tpl(L.mName,{n:v('name')}):''];
   var body=lines.filter(Boolean).join('\n'),num=bf.dataset.sms.replace(/[^0-9+]/g,'');
   d.getElementById('bkSms').href='sms:'+num+'?&body='+encodeURIComponent(body);
   var w=d.getElementById('bkWa');if(w)w.href='https://wa.me/'+num.replace(/\D/g,'')+'?text='+encodeURIComponent(body);

diff --git a/agvast/index.html b/agvast/index.html
@@ -397,6 +397,10 @@ body.t-ag main>section:is(.blk,.sec){--tA:#CFC0D9;--tB:#E6DCEA}
 .t-ag .pz-text h2{font-size:clamp(36px,4vw,56px);color:#fff}
 .t-ag .pz-text h2 em{font-style:normal;color:#EBC1D3}
 .t-ag .pz-text p{color:#E2D7E8;font-size:18px}
+/* QA 19.11: logo ei tohi menüü alla kokku suruda (900–1280px, RU pikemad sõnad) */
+.t-ag .top .brand{flex:none}
+@media (max-width:1239px){.t-ag .top-call{display:none}}
+@media (max-width:1079px){.t-ag .top .nav{display:none}}
 .t-ag .day{list-style:none;padding:0;margin:26px 0 0;display:grid;gap:8px}
 .t-ag .day li{display:grid;grid-template-columns:64px 1fr;gap:14px;align-items:center;font-size:16px}
 .t-ag .day time{font-variant-numeric:tabular-nums;font-weight:700}
@@ -588,7 +592,7 @@ body.t-ag main>section:is(.blk,.sec){--tA:#CFC0D9;--tB:#E6DCEA}
 <section id="kkk" class="sec faq">
   <div class="wrap faq-grid"><h2>Korduma kippuvad küsimused</h2><div class="faq-list"><details><summary>Kus massaaž toimub?</summary><p>Tartus. Täpse aadressi saad aja kinnitamisel.</p></details><details><summary>Kui palju massaaž maksab?</summary><p>Hinna ütleme aja kokkuleppimisel – see sõltub massaažist ja kestusest.</p></details><details><summary>Kui pikk massaaž olla võib?</summary><p>Valida saab 30, 60 või 90 minutit. Kui sa ei tea, mis sobib, küsi julgelt.</p></details><details><summary>Miks on aegade vahel paus?</summary><p>Iga massaaži järel on paus, et sinu aeg ei jääks lühemaks ja järgmine klient ei peaks ootama. Aegu ei panda kunagi üksteise otsa.</p></details><details><summary>Millal saab tulla?</summary><p>Vali vormis sobiv päev ja algusaeg või helista +372 5685 6773.</p></details><details><summary>Kas saab kinkekaardi?</summary><p>Jah – telli see siitsamast lehelt SMS-iga või helista.</p></details></div></div>
 </section>
-<section id="kontakt" class="blk" style="padding-top:0"><div class="wrap">
+<section id="kontakt" class="blk"><div class="wrap">
   <div class="g12 shead"><div><h2>Kontakt</h2></div><p>Helista, saada SMS või kirjuta – lepime aja kokku.</p></div>
   <article class="band city reveal-clip"><img src="img/tartu-1800.jpg" srcset="img/tartu-900.jpg 900w, img/tartu-1800.jpg 1800w" sizes="100vw" width="1800" height="788" alt="Sügis Holmi pargis, taamal Kaarsild ja raekoda, Tartu" loading="lazy" decoding="async"><div class="in"><h3>Tartu</h3><p>Täpse aadressi saad aja kinnitamisel.</p></div></article>
   <div class="contact">
@@ -767,7 +771,7 @@ function upd(){
   var day=v('date'),dd='';if(day){var pd=day.split('-');dd=pd[2]+'.'+pd[1]+'.'+pd[0]}
   var at=(s&&day)?tpl(T.at,{t:hm(cur)}):((L.tod||{}).u||'');
   if(s&&day)info.textContent=tpl(T.rng,{a:hm(cur),b:hm(cur+dur),c:hm(cur+dur+P)});
-  var lines=[tpl(L.mHello,{s:sd}),dd?tpl(L.mDate,{d:dd,t:at}):tpl(L.mTime,{t:at}),v('note'),L.mAsk||'',v('name')?tpl(L.mName,{n:v('name')}):''];
+  var lines=[tpl(L.mHello,{s:sd}),dd?tpl(L.mDate,{d:dd,t:at}):tpl(L.mTime,{t:at}),v('note'),(s&&day)?'':(L.mAsk||''),v('name')?tpl(L.mName,{n:v('name')}):''];
   var body=lines.filter(Boolean).join('\n'),num=bf.dataset.sms.replace(/[^0-9+]/g,'');
   d.getElementById('bkSms').href='sms:'+num+'?&body='+encodeURIComponent(body);
   var w=d.getElementById('bkWa');if(w)w.href='https://wa.me/'+num.replace(/\D/g,'')+'?text='+encodeURIComponent(body);
